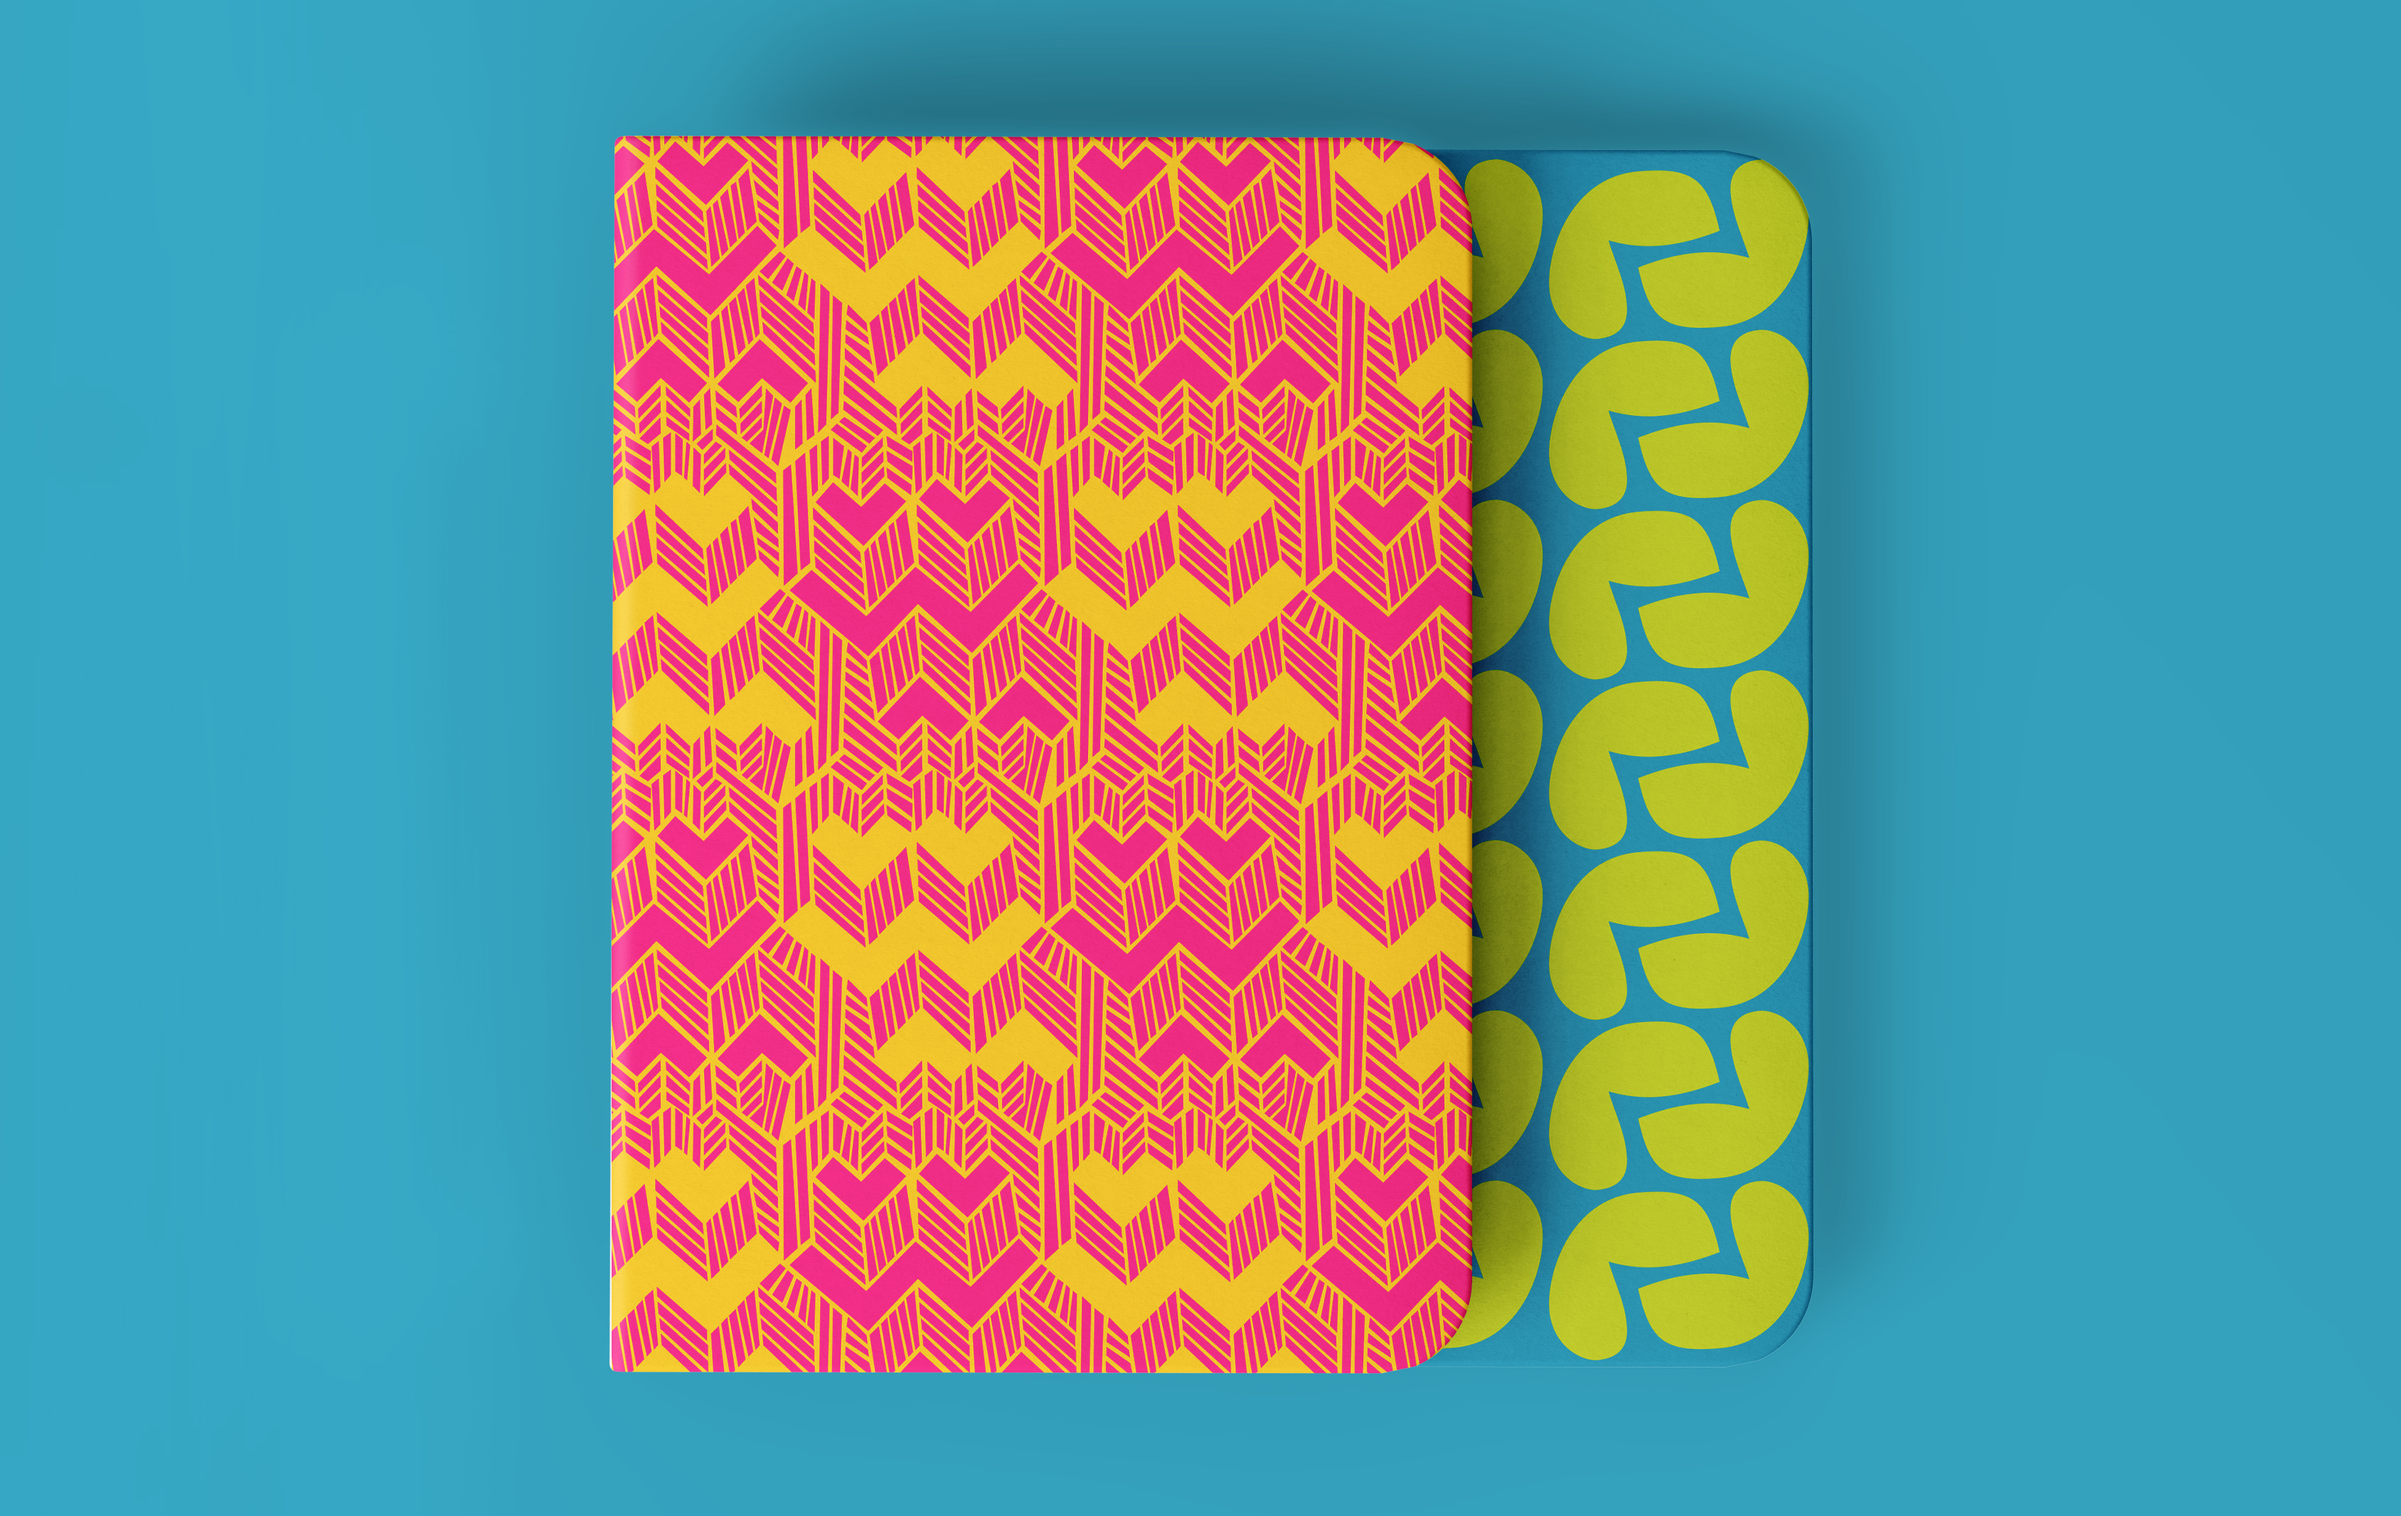
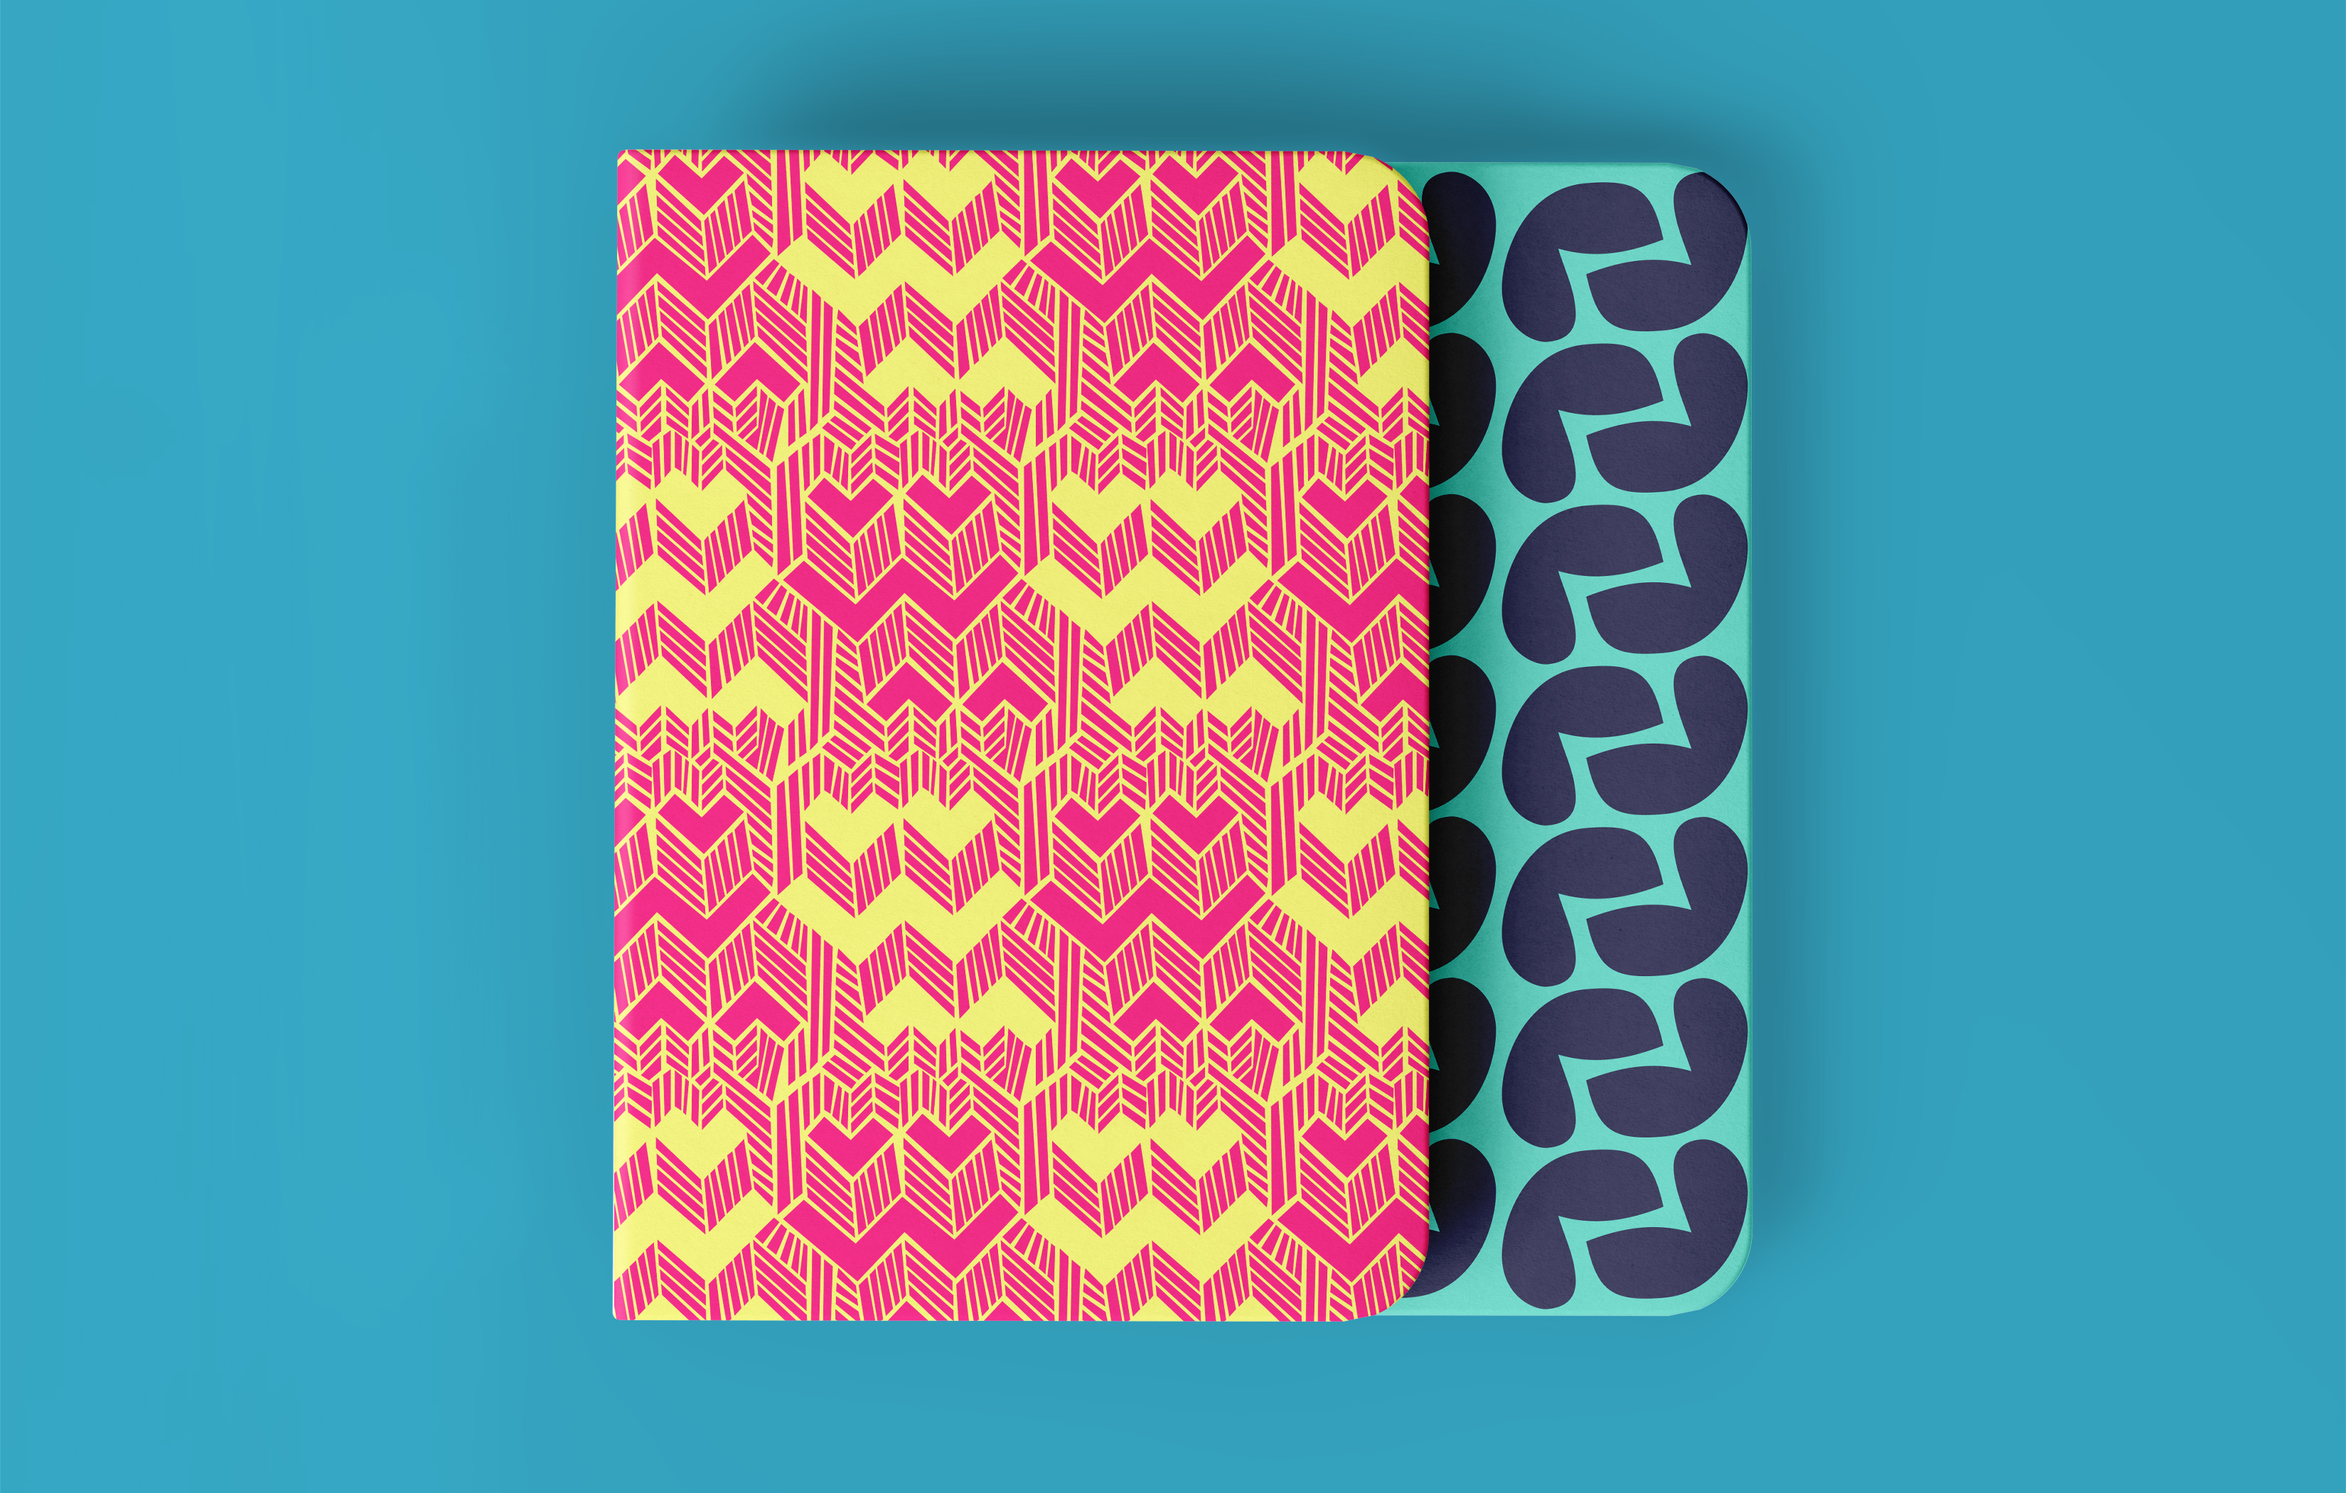
cambio de colro

diff --git a/index.html b/index.html
@@ -324,9 +324,10 @@
             <figure><img src="./img/abc-fotos-3.png"></figure>
         </article>
 
+<!-- cuaderno ••••••••••••••••••••••••••••••••••-->
 
-        <article>
-            <figure><img src="./img/abc-fotos-4.png"></figure>
+        <article class="verde3">
+            <figure><img src="./img/mockup-cuaderno.jpg"></figure> 
         </article>
 
 

diff --git a/style.css b/style.css
@@ -124,6 +124,14 @@ background: linear-gradient(90deg, rgba(62,168,152,1) 49%, rgba(130,192,184,1) 5
     background: linear-gradient(90deg, #ffff73 30%, rgba(52, 69, 87, 1) 80%);
 }
 
+.verde5 {
+    display: block;
+    background: rgb(186, 195, 40);;
+    /*padding: 20px 0 20px 0; */
+    margin: 0;
+}
+
+
 .blanco {
     display: block;
     background: white;
